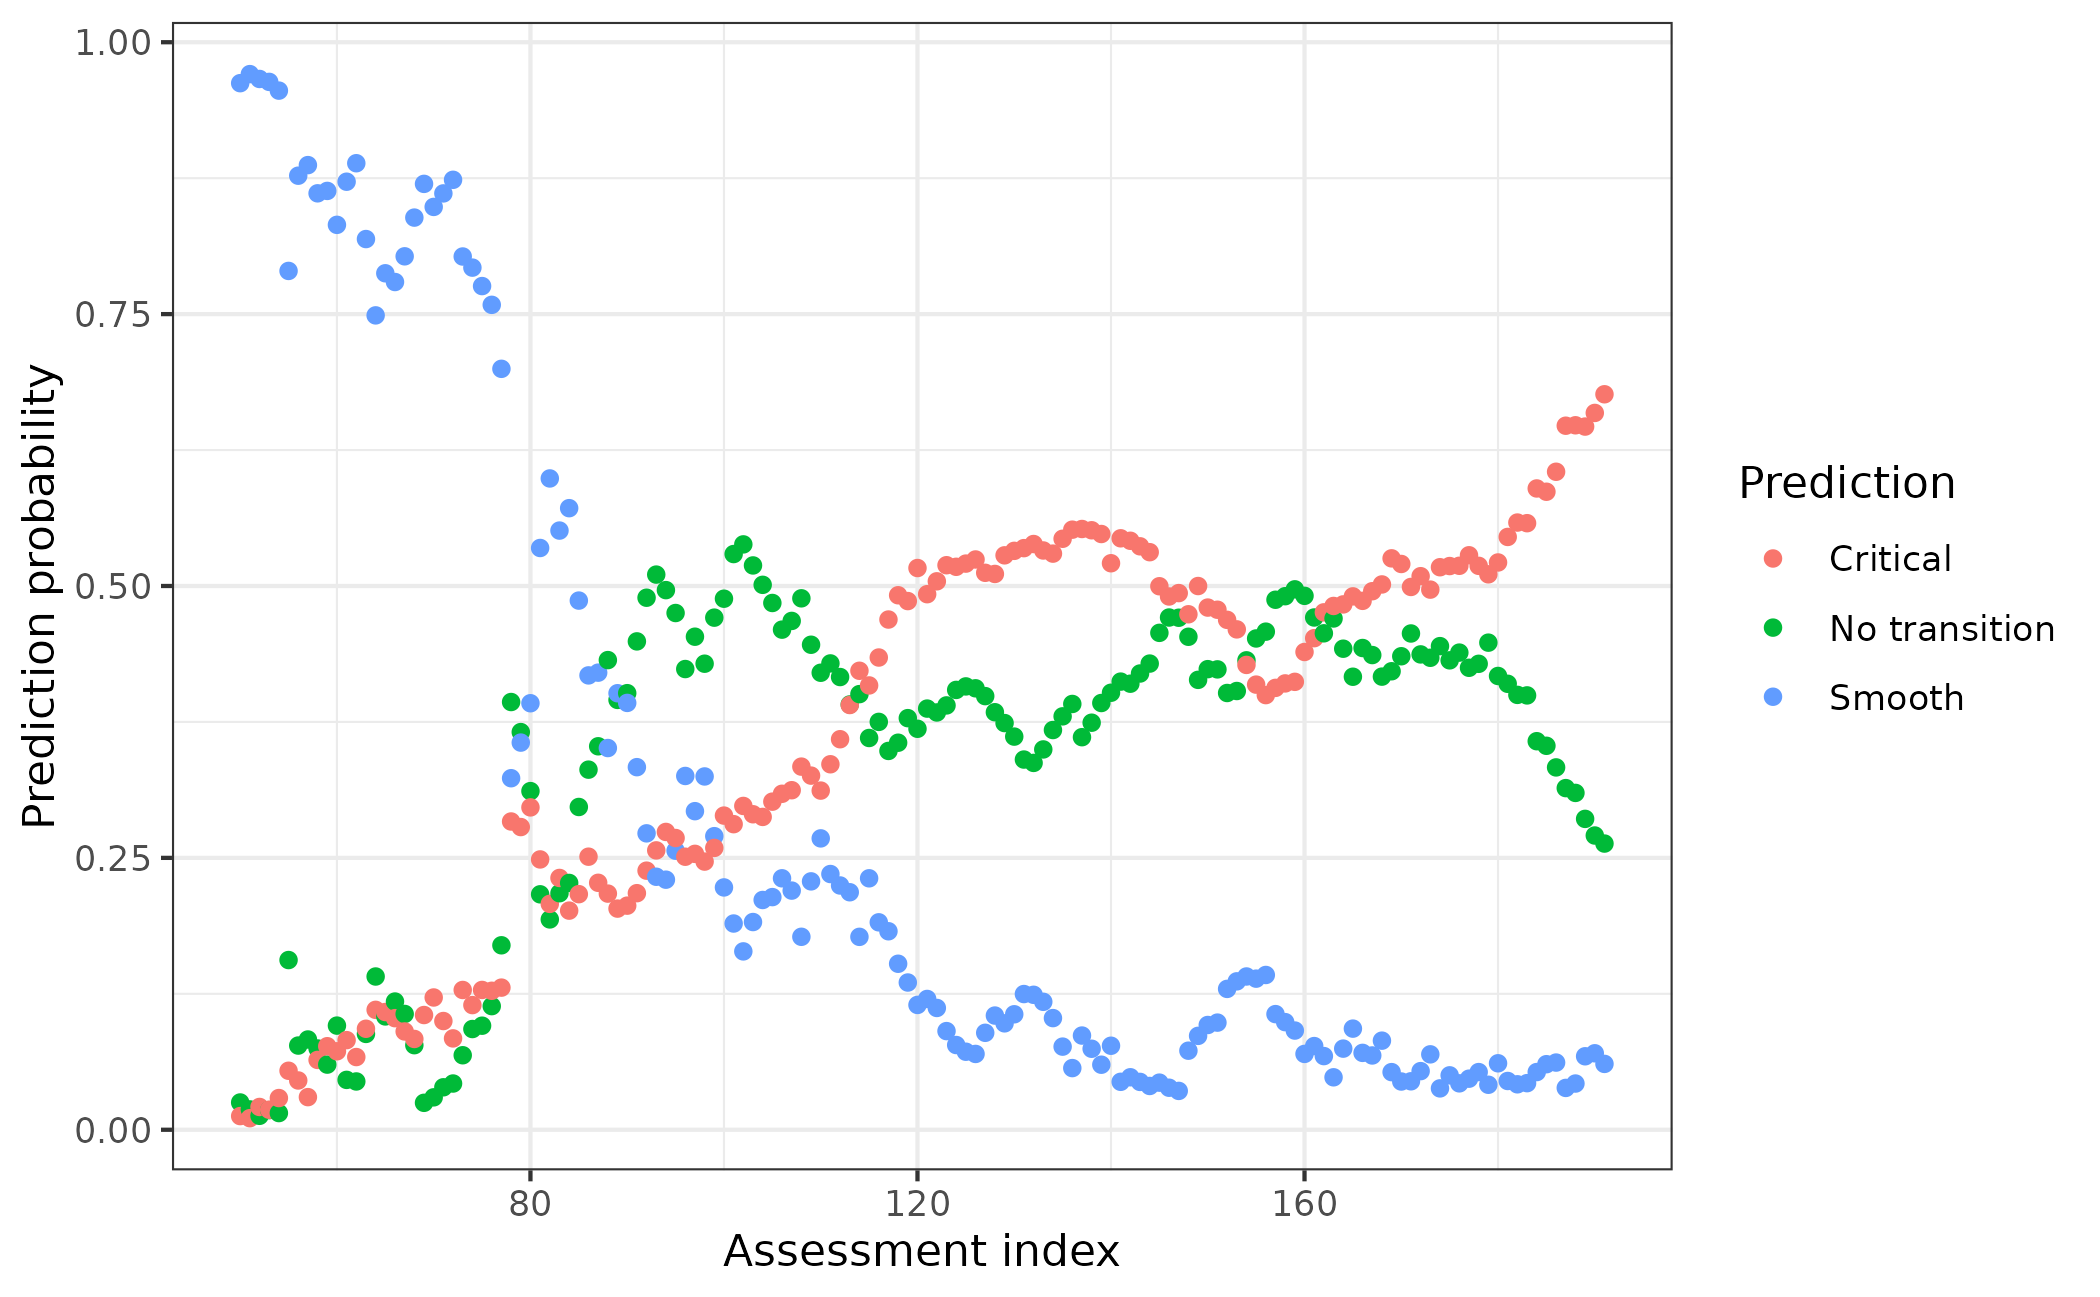
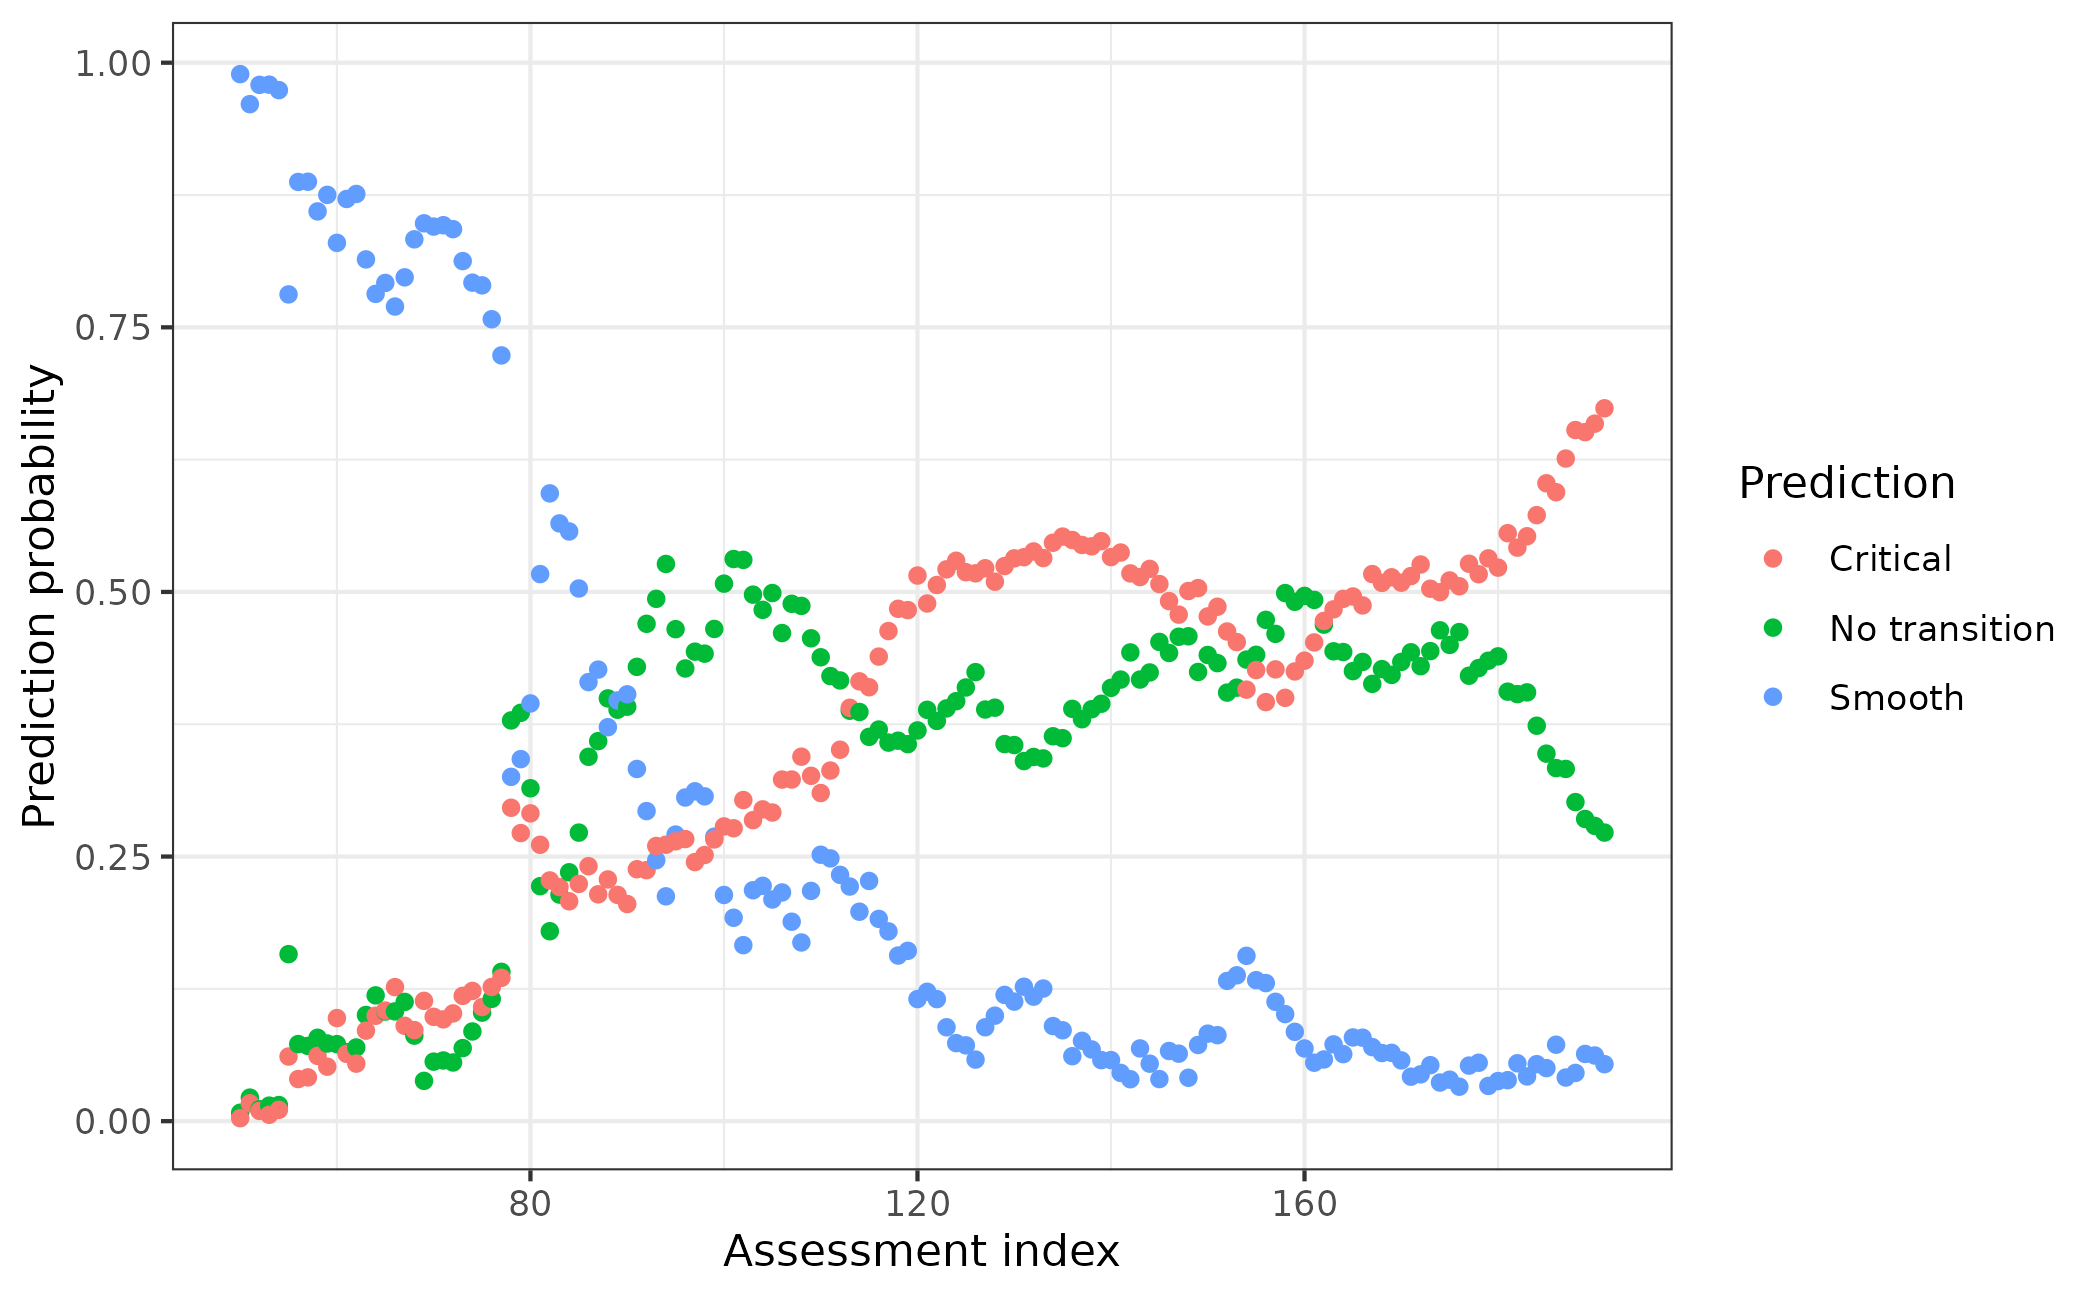
Deploying to gh-pages from @ duncanobrien/EWSmethods@bd249c97c2eb754589f277a6cecee448e3b536c0 🚀

diff --git a/articles/using_ewsnet.html b/articles/using_ewsnet.html
@@ -85,7 +85,7 @@
       <img src="../logo.svg" class="logo" alt=""><h1>Using EWSNet</h1>
                         <h4 data-toc-skip class="author">Duncan O’Brien</h4>
             
-            <h4 data-toc-skip class="date">2022-10-12</h4>
+            <h4 data-toc-skip class="date">2022-10-20</h4>
       
       <small class="dont-index">Source: <a href="https://github.com/duncanobrien/EWSmethods/blob/HEAD/vignettes/using_ewsnet.Rmd" class="external-link"><code>vignettes/using_ewsnet.Rmd</code></a></small>
       <div class="d-none name"><code>using_ewsnet.Rmd</code></div>
@@ -130,7 +130,7 @@
 <span><span class="co">#&gt; pythonhome:     /usr/share/miniconda/envs/EWSNET_env:/usr/share/miniconda/envs/EWSNET_env</span></span>
 <span><span class="co">#&gt; version:        3.8.13 (default, Mar 28 2022, 11:38:47)  [GCC 7.5.0]</span></span>
 <span><span class="co">#&gt; numpy:          /usr/share/miniconda/envs/EWSNET_env/lib/python3.8/site-packages/numpy</span></span>
-<span><span class="co">#&gt; numpy_version:  1.23.3</span></span>
+<span><span class="co">#&gt; numpy_version:  1.23.4</span></span>
 <span><span class="co">#&gt; </span></span>
 <span><span class="co">#&gt; NOTE: Python version was forced by use_python function</span></span>
 <span></span>
@@ -140,7 +140,7 @@
 <span><span class="co">#&gt;         package version       requirement   channel</span></span>
 <span><span class="co">#&gt; 1 _libgcc_mutex     0.1 _libgcc_mutex=0.1 pkgs/main</span></span>
 <span><span class="co">#&gt; 2 _openmp_mutex     5.1 _openmp_mutex=5.1 pkgs/main</span></span>
-<span><span class="co">#&gt; 3       absl-py   1.2.0     absl-py=1.2.0      pypi</span></span>
+<span><span class="co">#&gt; 3       absl-py   1.3.0     absl-py=1.3.0      pypi</span></span>
 <span><span class="co">#&gt; 4     alabaster  0.7.12  alabaster=0.7.12      pypi</span></span>
 <span><span class="co">#&gt; 5    astunparse   1.6.3  astunparse=1.6.3      pypi</span></span>
 <span><span class="co">#&gt; 6         babel  2.10.3      babel=2.10.3      pypi</span></span></code></pre></div>
@@ -167,7 +167,7 @@
 <span></span>
 <span><span class="va">ewsnet_prediction</span></span>
 <span><span class="co">#&gt;                  pred no_trans_prob smooth_trans_prob critical_trans_prob</span></span>
-<span><span class="co">#&gt; 1 Critical Transition     0.2800401        0.04667935           0.6732807</span></span></code></pre></div>
+<span><span class="co">#&gt; 1 Critical Transition      0.260618        0.06272519           0.6766569</span></span></code></pre></div>
 <div class="section level4">
 <h4 id="interpreting-ewsnet">Interpreting EWSNet<a class="anchor" aria-label="anchor" href="#interpreting-ewsnet"></a>
 </h4>

diff --git a/reference/multiEWS.html b/reference/multiEWS.html
@@ -146,7 +146,7 @@
 <span class="r-in"><span> method <span class="op">=</span> <span class="st">"rolling"</span>,</span></span>
 <span class="r-in"><span> winsize <span class="op">=</span> <span class="fl">50</span>,</span></span>
 <span class="r-in"><span> ggplotIt <span class="op">=</span><span class="cn">FALSE</span><span class="op">)</span></span></span>
-<span class="r-wrn co"><span class="r-pr">#&gt;</span> <span class="warning">Warning: </span>the standard deviation is zero</span>
+<span class="r-wrn co"><span class="r-pr">#&gt;</span> <span class="warning">Warning: </span>Cannot compute exact p-value with ties</span>
 <span class="r-in"><span></span></span>
 <span class="r-in"><span><span class="co">#Expanding window early warning signal assessment of</span></span></span>
 <span class="r-in"><span><span class="co">#the ecosystem, with plotting.</span></span></span>

diff --git a/articles/ews_assessments.html b/articles/ews_assessments.html
@@ -85,7 +85,7 @@
       <img src="../logo.svg" class="logo" alt=""><h1>Performing Early Warning Signal Assessments</h1>
                         <h4 data-toc-skip class="author">Duncan O’Brien</h4>
             
-            <h4 data-toc-skip class="date">2022-10-12</h4>
+            <h4 data-toc-skip class="date">2022-10-20</h4>
       
       <small class="dont-index">Source: <a href="https://github.com/duncanobrien/EWSmethods/blob/HEAD/vignettes/ews_assessments.Rmd" class="external-link"><code>vignettes/ews_assessments.Rmd</code></a></small>
       <div class="d-none name"><code>ews_assessments.Rmd</code></div>
